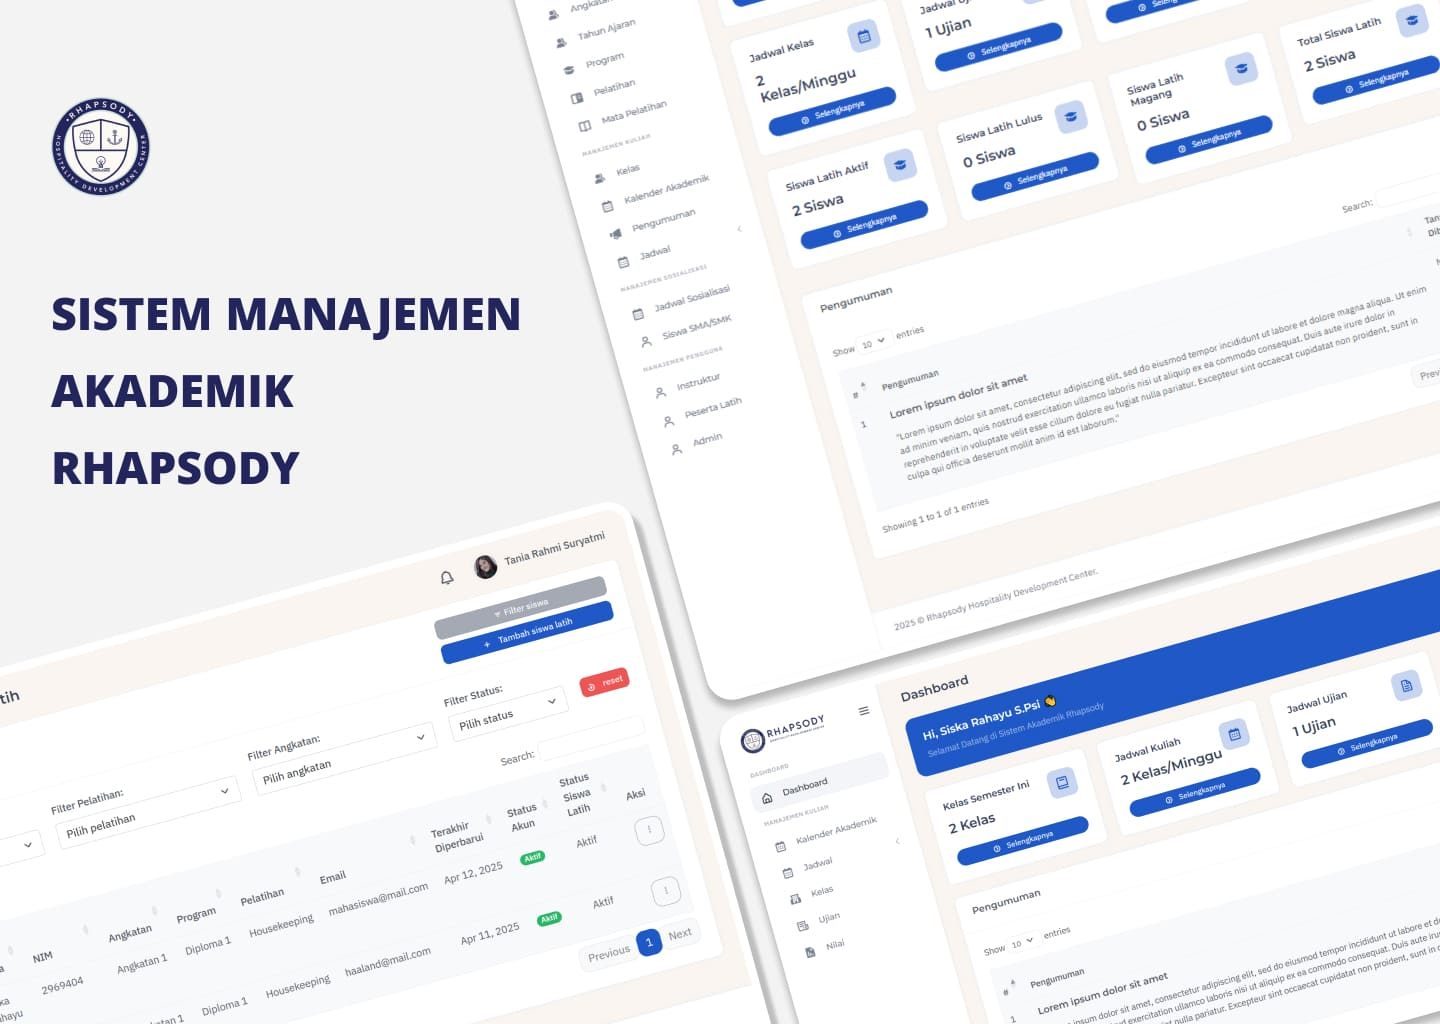
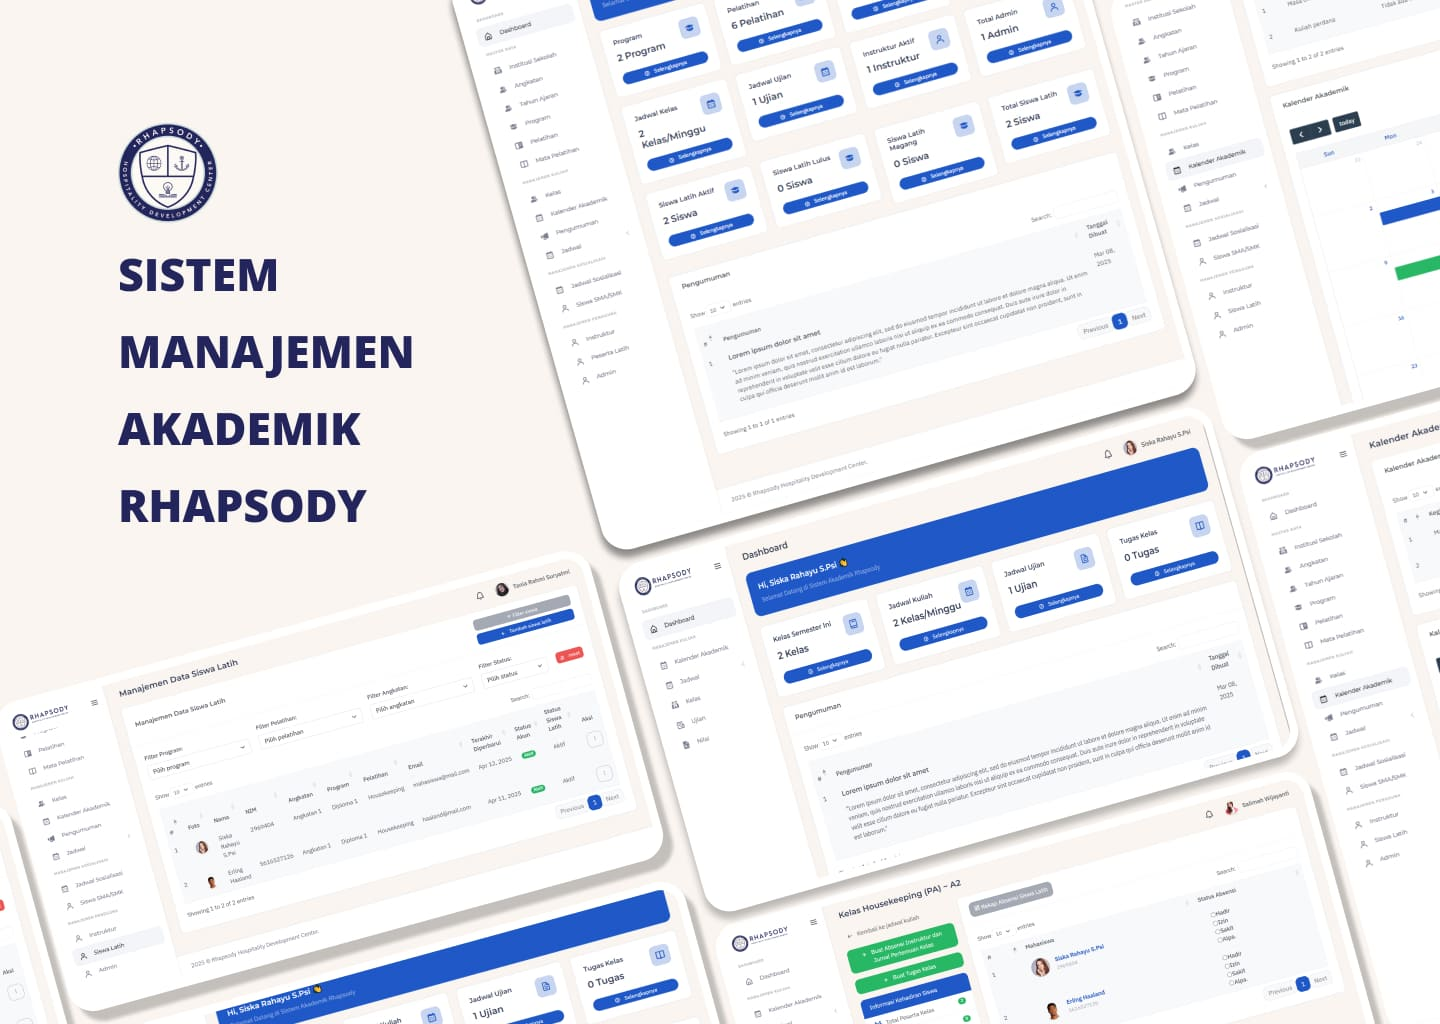
refactor: update sistem akademik project thumbnail

diff --git a/content/collections/portofolios/2025-04-17.sistem-informasi-akademik-rhapsody.md b/content/collections/portofolios/2025-04-17.sistem-informasi-akademik-rhapsody.md
@@ -82,7 +82,7 @@ technology:
   - php
   - sentry
 updated_by: 9777f40c-e866-44a6-a64b-1907a2ec929e
-updated_at: 1747624059
+updated_at: 1749182806
 buttons:
   -
     id: maui72y4
